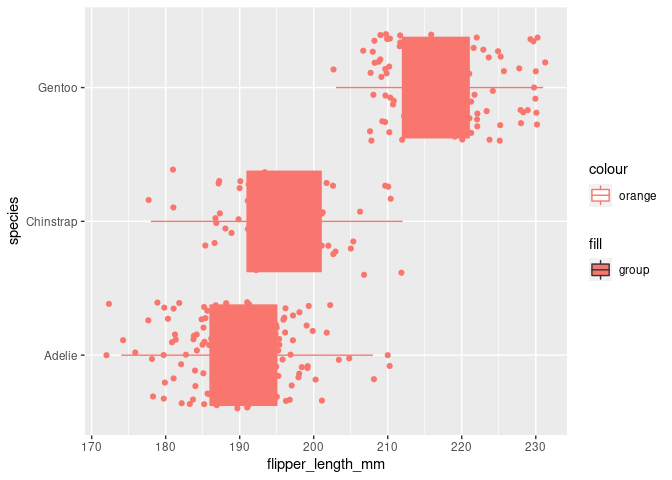
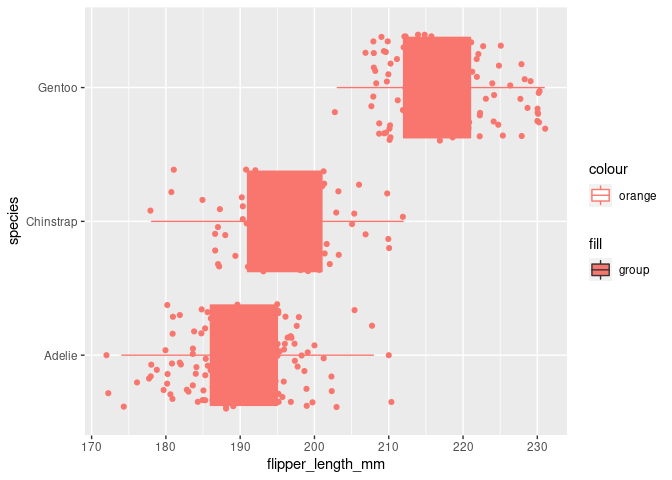
Boxplots are black but jitter plots have different colors for different species

diff --git a/activity02-ggplot2-intro.md b/activity02-ggplot2-intro.md
@@ -229,8 +229,8 @@ methods to try to create this plot. A hint, all `geom_*` have a
 `mapping` argument.
 
 ``` r
-ggplot(data = penguins, mapping = aes(x = flipper_length_mm, y = species,  color = 'orange', fill = 'group')) +
-  geom_boxplot()+ geom_jitter(color = 'blue', fill = 'yellow')
+ggplot(data = penguins, mapping = aes(x = flipper_length_mm, y = species,  )) +
+  geom_boxplot()+ geom_jitter(mapping=aes(color=species))
 ```
 
     ## Warning: Removed 2 rows containing non-finite values (stat_boxplot).
